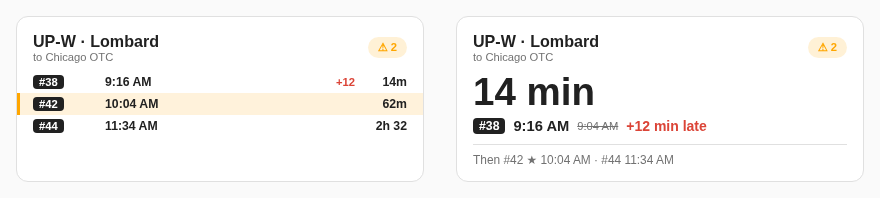
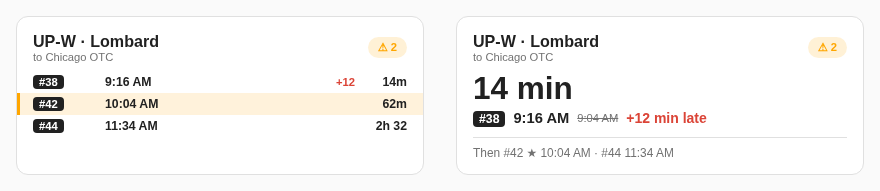
Add line color badges, delay colors and following trains option

diff --git a/custom_components/metra_train_tracker/frontend/metra-train-tracker-card.js b/custom_components/metra_train_tracker/frontend/metra-train-tracker-card.js
@@ -8,9 +8,13 @@
  *   entity: sensor.up_w_lombard_inbound_next_arrival
  *   layout: list            # list, compact or next_train
  *   next_train_time: above  # above, left or right (next_train layout only)
+ *   show_following: true    # the "Then" line (next_train layout only)
  *   time_display: expected  # expected, scheduled or both
  *   time_format: 12h        # 12h, 24h or raw
  *   countdown: minutes      # minutes, auto or off
+ *   countdown_colors: false # on time green, delayed orange, significantly delayed red
+ *   significant_delay_minutes: 20
+ *   line_color_badges: false # train numbers on the line's color from the feed
  *   alerts: summary         # summary, full or hidden
  *   favorites: highlight    # mark, highlight or only
  *   pin_favorite: false     # always show the next favorite, even past the list
@@ -26,6 +30,8 @@ const AUTO_COUNTDOWN_MINUTES = 30;
 const LONG_COUNTDOWN_MINUTES = 90;
 const SCHEDULE_TIME_ZONE = "America/Chicago";
 const NEXT_TRAIN_FOLLOWING = 2;
+const DELAYED_MINUTES = 3; // Shorter delays are common, and hardly noticed on a platform.
+const HEX_COLOR = /^[0-9a-f]{6}$/i;
 
 const CHOICES = {
   layout: ["list", "compact", "next_train"],
@@ -40,9 +46,13 @@ const CHOICES = {
 const DEFAULTS = {
   layout: "list",
   next_train_time: "above",
+  show_following: true,
   time_display: "expected",
   time_format: "12h",
   countdown: "minutes",
+  countdown_colors: false,
+  significant_delay_minutes: 20,
+  line_color_badges: false,
   alerts: "summary",
   favorites: "highlight",
   pin_favorite: false,
@@ -106,6 +116,8 @@ const STYLES = `
   .scheduled-time { margin-left: 6px; font-size: 0.8rem; color: var(--mtt-muted); }
   .late { color: var(--mtt-late); font-weight: 600; }
   .good { color: var(--mtt-good); }
+  /* Plain orange is faint as text on a light card, so shift it toward the text color. */
+  .warn { color: var(--mtt-warn); color: color-mix(in srgb, var(--mtt-warn) 78%, var(--mtt-fg)); font-weight: 600; }
   .muted { color: var(--mtt-muted); }
 
   .row { display: grid; grid-template-columns: 72px 1fr auto; gap: 8px; align-items: center; padding: 9px 0; border-top: 1px solid var(--mtt-rule); }
@@ -131,7 +143,7 @@ const STYLES = `
   .compact-delay { font-size: 0.8rem; }
   .compact-headsign { margin-left: 8px; font-size: 0.8rem; }
 
-  .hero-time { font-size: 2.75rem; font-weight: 700; line-height: 1.1; white-space: nowrap; }
+  .hero-time { font-size: 2.25rem; font-weight: 700; line-height: 1.1; white-space: nowrap; }
   /* Side by side when there's room. The details wrap underneath on a narrow card. */
   .hero-left, .hero-right { display: flex; flex-wrap: wrap; align-items: center; gap: 4px 20px; }
   .hero-right { flex-direction: row-reverse; justify-content: space-between; }
@@ -178,6 +190,12 @@ function formatCountdown(minutes, short) {
   return minutes % 60 ? `in ${hours} hr ${rest} min` : `in ${hours} hr`;
 }
 
+/** A readable text color for a feed color with no text color of its own. */
+function contrastColor(hex) {
+  const [r, g, b] = [0, 2, 4].map((start) => parseInt(hex.slice(start, start + 2), 16));
+  return (r * 299 + g * 587 + b * 114) / 1000 > 140 ? "#000000" : "#ffffff";
+}
+
 /** The facts about a train's call at the station, independent of how they're shown. */
 function describeTrip(trip, format) {
   const stop = trip.stops?.[0] ?? {};
@@ -194,6 +212,8 @@ function describeTrip(trip, format) {
     train: trip.train,
     favorite: Boolean(trip.favorite),
     headsign: trip.tripHeadsign ?? "",
+    delay,
+    live: Boolean(live),
     delayed: delay !== 0,
     scheduled,
     expected,
@@ -386,7 +406,15 @@ class MetraTrainTrackerCard extends HTMLElement {
   }
 
   _renderTrainBadge(trip, parent) {
-    parent.append(el("span", "badge", `#${trip.train}`));
+    const badge = el("span", "badge", `#${trip.train}`);
+    const color = this._route?.routeColor;
+    // Feed data goes into a style, so only accept a plain hex color.
+    if (this._config.line_color_badges && HEX_COLOR.test(color ?? "")) {
+      const text = this._route.routeTextColor;
+      badge.style.background = `#${color}`;
+      badge.style.color = HEX_COLOR.test(text ?? "") ? `#${text}` : contrastColor(color);
+    }
+    parent.append(badge);
     if (trip.favorite && this._config.favorites !== "highlight") {
       const star = el("span", "star", "★");
       star.title = "Favorite train";
@@ -405,6 +433,24 @@ class MetraTrainTrackerCard extends HTMLElement {
       else if (display === "expected" && trip.delayed) time.append(el("span", "old-time", trip.scheduled));
     }
     return time;
+  }
+
+  /** The countdown color class, or "" if colors are off or there's no live data. */
+  _delayClass(trip) {
+    if (!this._config.countdown_colors) return "";
+    if (trip.delay >= (Number(this._config.significant_delay_minutes) || DEFAULTS.significant_delay_minutes)) {
+      return "late";
+    }
+    if (trip.delay >= DELAYED_MINUTES) return "warn";
+    return trip.live ? "good" : "";
+  }
+
+  /** The delay label matches the countdown when colors are on. */
+  _statusClass(trip) {
+    const color = this._delayClass(trip);
+    if (!color || trip.delay <= 0) return trip.status.className;
+    // A short delay counts as on time, but green "+2 min late" would read oddly.
+    return color === "good" ? "muted" : color;
   }
 
   _countdownText(trip, short) {
@@ -430,7 +476,7 @@ class MetraTrainTrackerCard extends HTMLElement {
     const details = el("div", "details");
     details.append(this._renderTime(trip));
     const status = el("div", "status");
-    status.append(el("span", trip.status.className, trip.status.text));
+    status.append(el("span", this._statusClass(trip), trip.status.text));
     const extras = [];
     if (this._showHeadsign()) extras.push(`to ${trip.headsign}`);
     if (this._config.show_origin && trip.origin) extras.push(trip.origin);
@@ -442,7 +488,7 @@ class MetraTrainTrackerCard extends HTMLElement {
     }
     details.append(status);
 
-    row.append(badge, details, el("div", "countdown", this._countdownText(trip, false)));
+    row.append(badge, details, el("div", `countdown ${this._delayClass(trip)}`, this._countdownText(trip, false)));
     return row;
   }
 
@@ -458,8 +504,8 @@ class MetraTrainTrackerCard extends HTMLElement {
     row.append(
       badge,
       timeCell,
-      el("span", `compact-delay ${trip.status.className}`, delay),
-      el("span", "countdown", this._countdownText(trip, true)),
+      el("span", `compact-delay ${this._statusClass(trip)}`, delay),
+      el("span", `countdown ${this._delayClass(trip)}`, this._countdownText(trip, true)),
     );
     return row;
   }
@@ -478,13 +524,13 @@ class MetraTrainTrackerCard extends HTMLElement {
     info.append(badge);
     if (big) info.append(el("span", "time", first.expected));
     if (first.delayed) info.append(el("span", "old-time", first.scheduled));
-    info.append(el("span", first.status.className, first.status.text));
+    info.append(el("span", this._statusClass(first), first.status.text));
     // Trains here go to different places, so each one has to say where.
     const showHeadsign = this._showHeadsign();
     if (showHeadsign) info.append(el("span", "muted", `to ${first.headsign}`));
     details.append(info);
     if (this._config.show_origin && first.origin) details.append(el("div", "status muted", first.origin));
-    if (following.length) {
+    if (this._config.show_following && following.length) {
       const text = following
         .map(
           (trip) =>
@@ -493,7 +539,7 @@ class MetraTrainTrackerCard extends HTMLElement {
         .join("  ·  ");
       details.append(el("div", "hero-then", `Then  ${text}`));
     }
-    hero.append(el("div", "hero-time", big || first.expected), details);
+    hero.append(el("div", `hero-time ${this._delayClass(first)}`, big || first.expected), details);
     return [hero];
   }
 
@@ -552,6 +598,9 @@ const EDITOR_SCHEMA = [
     ["auto", `Within ${AUTO_COUNTDOWN_MINUTES} minutes`],
     ["off", "Off"],
   ]),
+  { name: "countdown_colors", selector: { boolean: {} } },
+  { name: "significant_delay_minutes", selector: { number: { min: 1, max: 180, mode: "box", unit_of_measurement: "min" } } },
+  { name: "line_color_badges", selector: { boolean: {} } },
   select("alerts", [
     ["summary", "Summary you can tap to open"],
     ["full", "Always open"],
@@ -562,6 +611,7 @@ const EDITOR_SCHEMA = [
     ["mark", "Mark with a star"],
     ["only", "Show only favorites"],
   ]),
+  { name: "show_following", selector: { boolean: {} } },
   { name: "pin_favorite", selector: { boolean: {} } },
   { name: "max_trains", selector: { number: { min: 1, max: 10, mode: "box" } } },
   { name: "title", selector: { text: {} } },
@@ -573,9 +623,13 @@ const EDITOR_LABELS = {
   entity: "Station's Next arrival sensor",
   layout: "Layout",
   next_train_time: "Next train time position",
+  show_following: "Show following trains",
   time_display: "Time shown",
   time_format: "Time format",
   countdown: "Countdown",
+  countdown_colors: "Color the countdown by delay",
+  significant_delay_minutes: "Significantly delayed after",
+  line_color_badges: "Show train numbers in the line's color",
   alerts: "Service alerts",
   favorites: "Favorite trains",
   pin_favorite: "Always show next favorite",
@@ -587,6 +641,9 @@ const EDITOR_LABELS = {
 
 const EDITOR_HELPERS = {
   next_train_time: "Only used by the Next train layout. Left and right use less height on wide cards.",
+  show_following: "Only used by the Next train layout. Turn off to hide the Then line and save height.",
+  countdown_colors: `Green when on time, orange from ${DELAYED_MINUTES} minutes late, red when significantly delayed. Scheduled trains with no live data stay uncolored.`,
+  significant_delay_minutes: "Minutes late before a train turns red.",
   max_trains: "Up to the station's Trains to show setting. Leave blank to show them all.",
   title: "Leave blank to use the line and station.",
 };

diff --git a/tests/test_schedule.py b/tests/test_schedule.py
@@ -608,3 +608,18 @@ def test_payload_omits_origin_when_train_starts_at_the_station() -> None:
     assert trip["train"] == "39"
     assert trip["originName"] is None
     assert trip["originDepartureTime"] is None
+
+
+def test_payload_includes_line_colors() -> None:
+    """The card can show train numbers in the line's color."""
+    route = build()["routes"][0]
+    assert route["routeColor"] == "FE8D81"
+    assert route["routeTextColor"] == "000000"
+
+
+def test_line_colors_are_none_when_the_feed_has_none() -> None:
+    """A line with no colors gives None, not an empty string."""
+    query = ScheduleQuery("BNSF", "AURORA", "inbound", 1)
+    route = build(query=query, now=datetime(2026, 11, 4, 8, 0, tzinfo=CENTRAL))["routes"][0]
+    assert route["routeColor"] is None
+    assert route["routeTextColor"] is None

diff --git a/tests/conftest.py b/tests/conftest.py
@@ -10,9 +10,9 @@ from unittest.mock import patch
 import pytest
 from google.transit import gtfs_realtime_pb2
 
-ROUTES = """route_id, route_short_name, route_long_name, route_desc, agency_id, route_type
-UP-W, UP-W, Union Pacific West, , METRA, 2
-BNSF, BNSF, Burlington Northern, , METRA, 2
+ROUTES = """route_id, route_short_name, route_long_name, route_desc, agency_id, route_type, route_color, route_text_color
+UP-W, UP-W, Union Pacific West, , METRA, 2, FE8D81, 000000
+BNSF, BNSF, Burlington Northern, , METRA, 2, ,
 """
 STOPS = """stop_id, stop_name, stop_desc, stop_lat, stop_lon
 LOMBARD, Lombard, ,41.88,-88.01

diff --git a/custom_components/metra_train_tracker/gtfs.py b/custom_components/metra_train_tracker/gtfs.py
@@ -23,6 +23,8 @@ class Route:
     short_name: str
     long_name: str
     description: str
+    color: str = ""
+    text_color: str = ""
 
 
 @dataclass(slots=True)
@@ -164,6 +166,8 @@ def parse_schedule(archive_bytes: bytes, keep_stops: Collection[str]) -> GtfsSch
                     row.get("route_short_name", ""),
                     row.get("route_long_name", ""),
                     row.get("route_desc", ""),
+                    row.get("route_color", ""),
+                    row.get("route_text_color", ""),
                 )
 
         for row in _read_rows(archive, "stops.txt"):

diff --git a/custom_components/metra_train_tracker/schedule.py b/custom_components/metra_train_tracker/schedule.py
@@ -214,6 +214,8 @@ def _route_payload(
         "routeShortName": route.short_name,
         "routeLongName": route.long_name,
         "routeDesc": route.description,
+        "routeColor": route.color or None,
+        "routeTextColor": route.text_color or None,
         "alerts": alerts,
         "trips": trips,
     }

diff --git a/README.md b/README.md
@@ -73,9 +73,13 @@ time_format: 12h
 | `entity` | Required | The station's **Next arrival** sensor |
 | `layout` | `list` | `list`, `compact`, or `next_train` for one large countdown |
 | `next_train_time` | `above` | Where the `next_train` countdown goes: `above`, `left` or `right`. Left and right use less height on wide cards |
+| `show_following` | `true` | Shows the `next_train` layout's **Then** line. Turn it off to save height |
 | `time_display` | `expected` | `expected` crosses out the original time when a train is late. Also `scheduled` or `both` |
 | `time_format` | `12h` | `12h` (9:04 AM), `24h` (09:04) or `raw` (09:04:00) |
 | `countdown` | `minutes` | `minutes`, `auto` for the last 30 minutes only, or `off` |
+| `countdown_colors` | `false` | Colors the countdown and delay: green when on time or under 3 minutes late, orange from 3 minutes late, red when significantly delayed. Trains with no live data stay uncolored |
+| `significant_delay_minutes` | `20` | Minutes late before a train turns red |
+| `line_color_badges` | `false` | Shows train numbers on each line's color. The colors come from Metra's published schedule data |
 | `alerts` | `summary` | `summary` is a chip you tap to open. Also `full` or `hidden` |
 | `favorites` | `highlight` | `highlight`, `mark` for a star, or `only` to list nothing else |
 | `pin_favorite` | `false` | Always show the next favorite, even if it's further out than the list |
@@ -92,6 +96,16 @@ Trains with live data show **On time** or how late they are. Trains without any 
 The `compact` and `next_train` layouts:
 
 ![The compact and next train layouts](https://raw.githubusercontent.com/adamjeffery/metra-ha/main/docs/images/card-layouts.png)
+
+The `next_train` layout with `next_train_time` set to `above`, `left` and `right`, then `left`
+with `show_following` off:
+
+![The next train layout with the time above, left and right, and without following trains](https://raw.githubusercontent.com/adamjeffery/metra-ha/main/docs/images/card-next-train.png)
+
+`countdown_colors` and `line_color_badges`, with trains 25, 3 and 2 minutes late, then on time, then
+with no live data yet. Line colors come from Metra's published schedule data:
+
+![Countdowns colored by delay, with train numbers on the line's color](https://raw.githubusercontent.com/adamjeffery/metra-ha/main/docs/images/card-colors.png)
 
 Service alerts with the summary chip tapped open:
 
